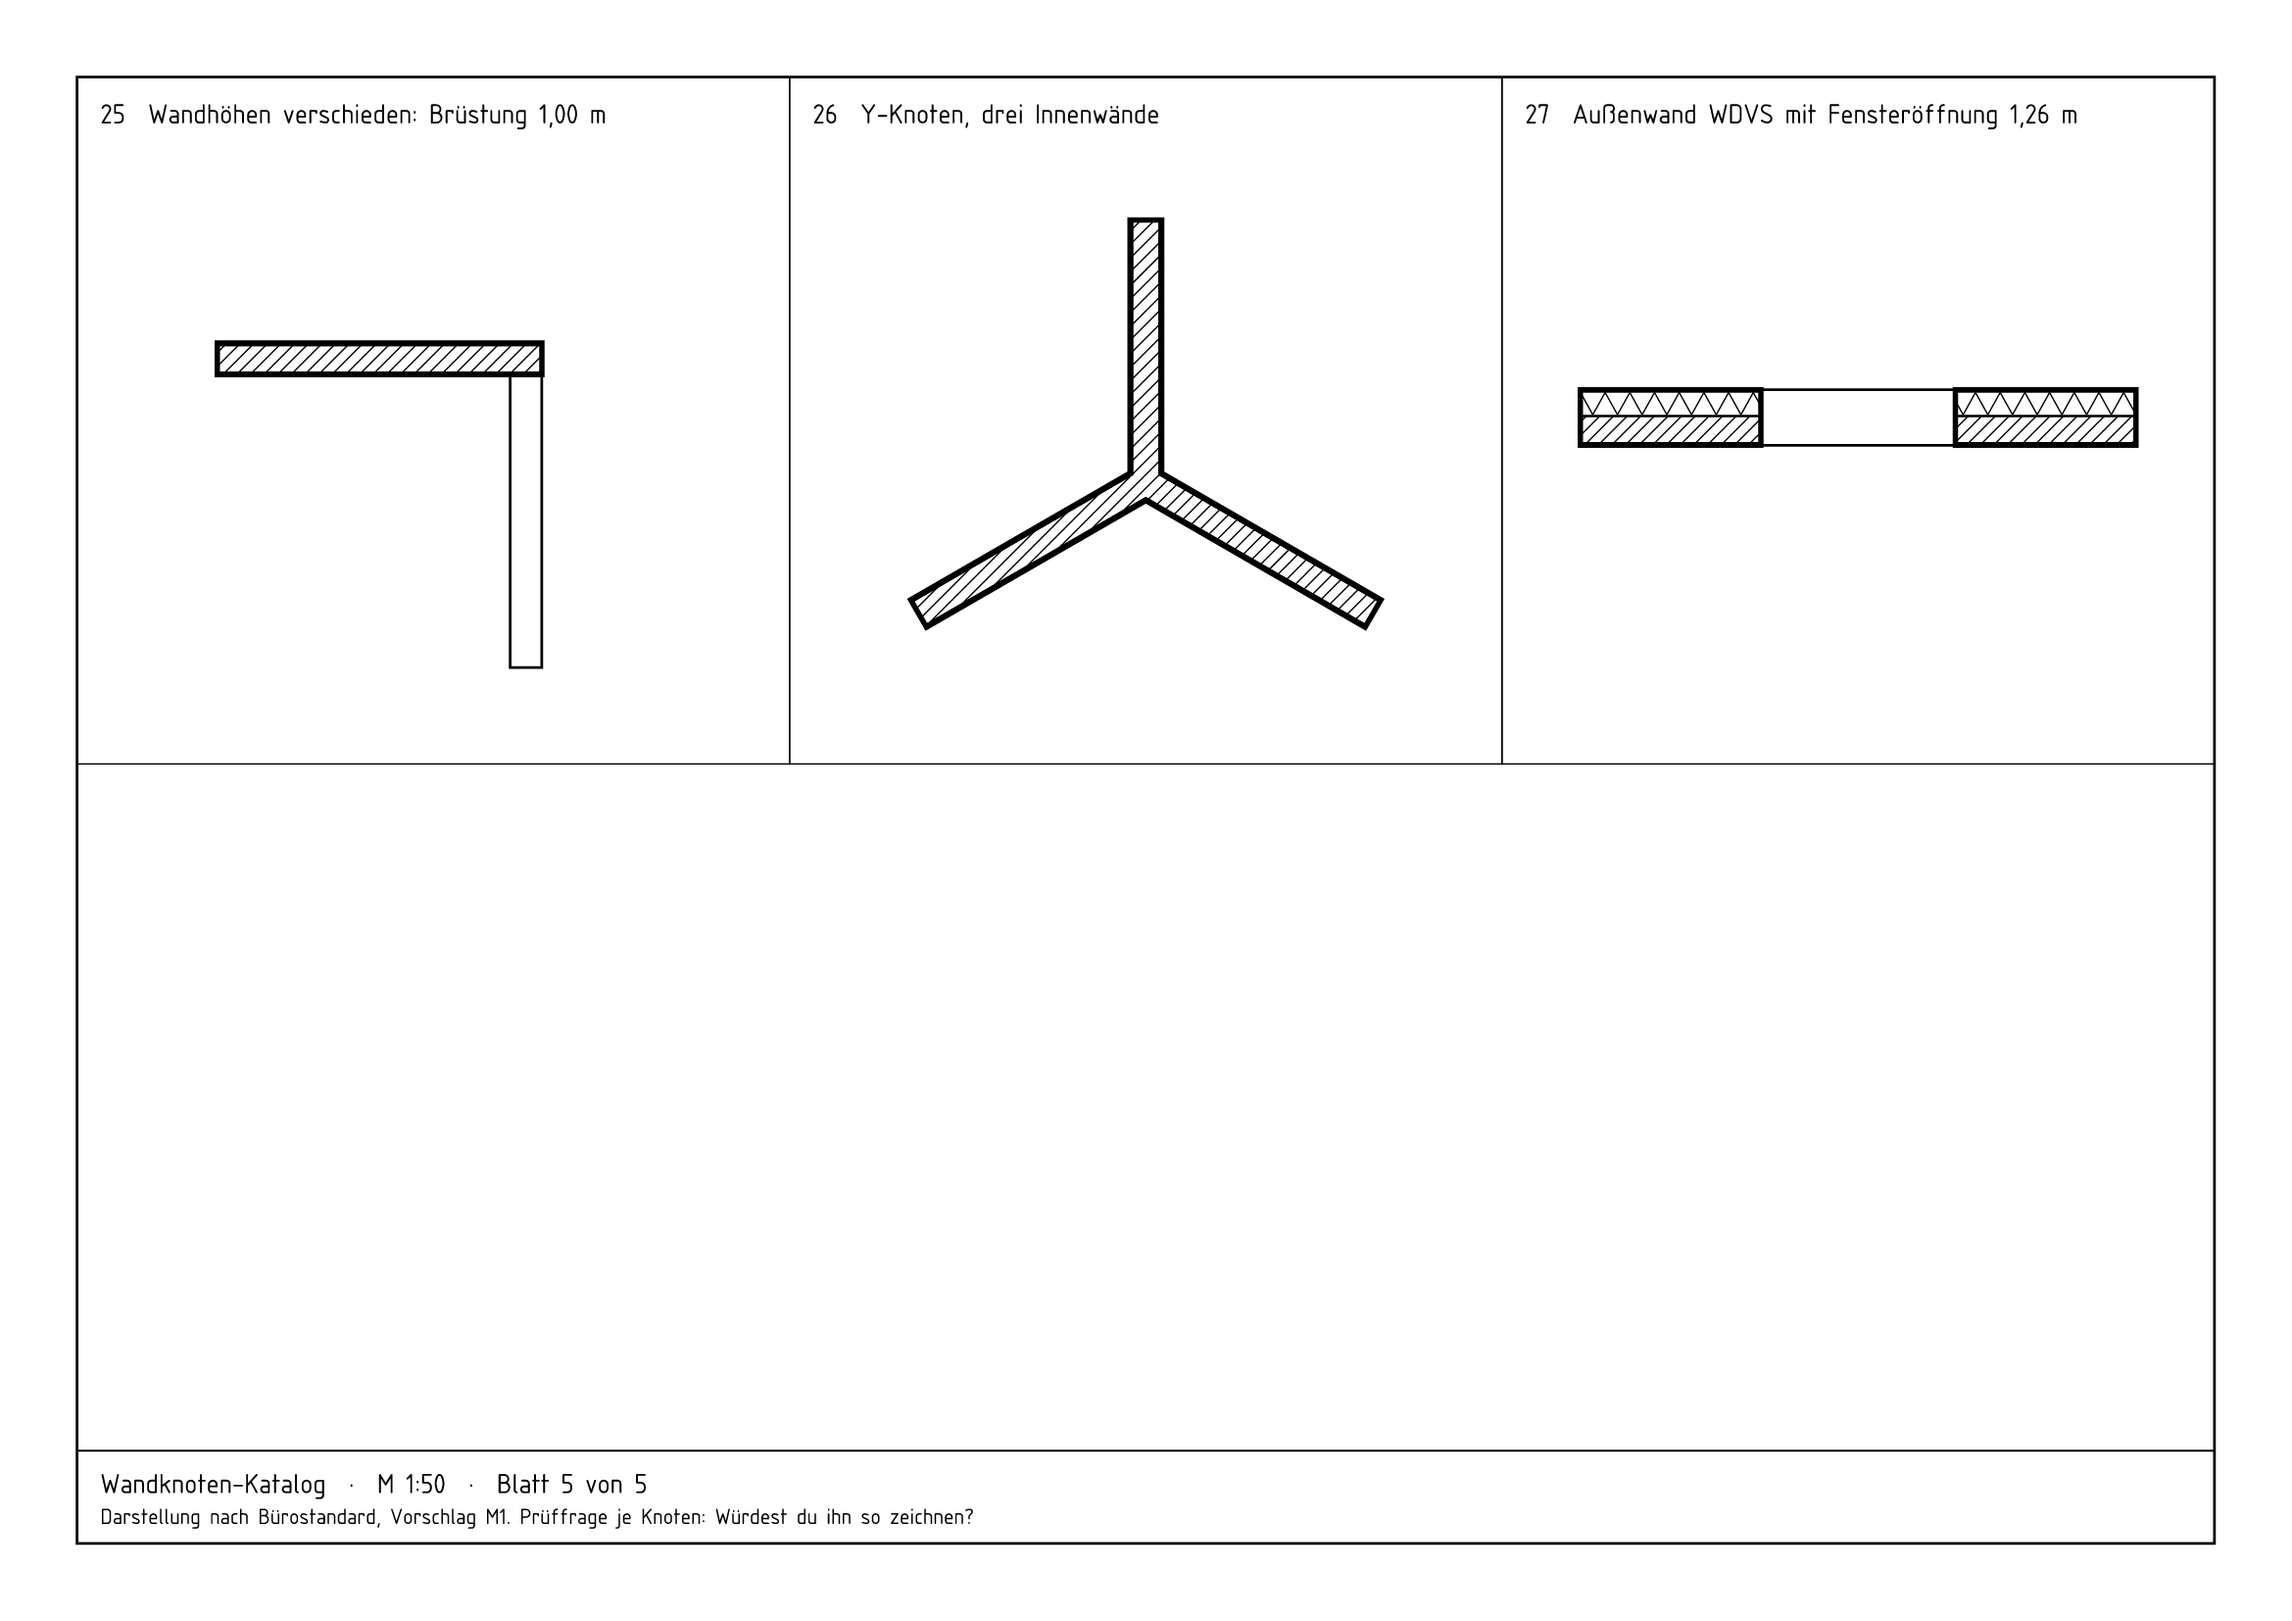
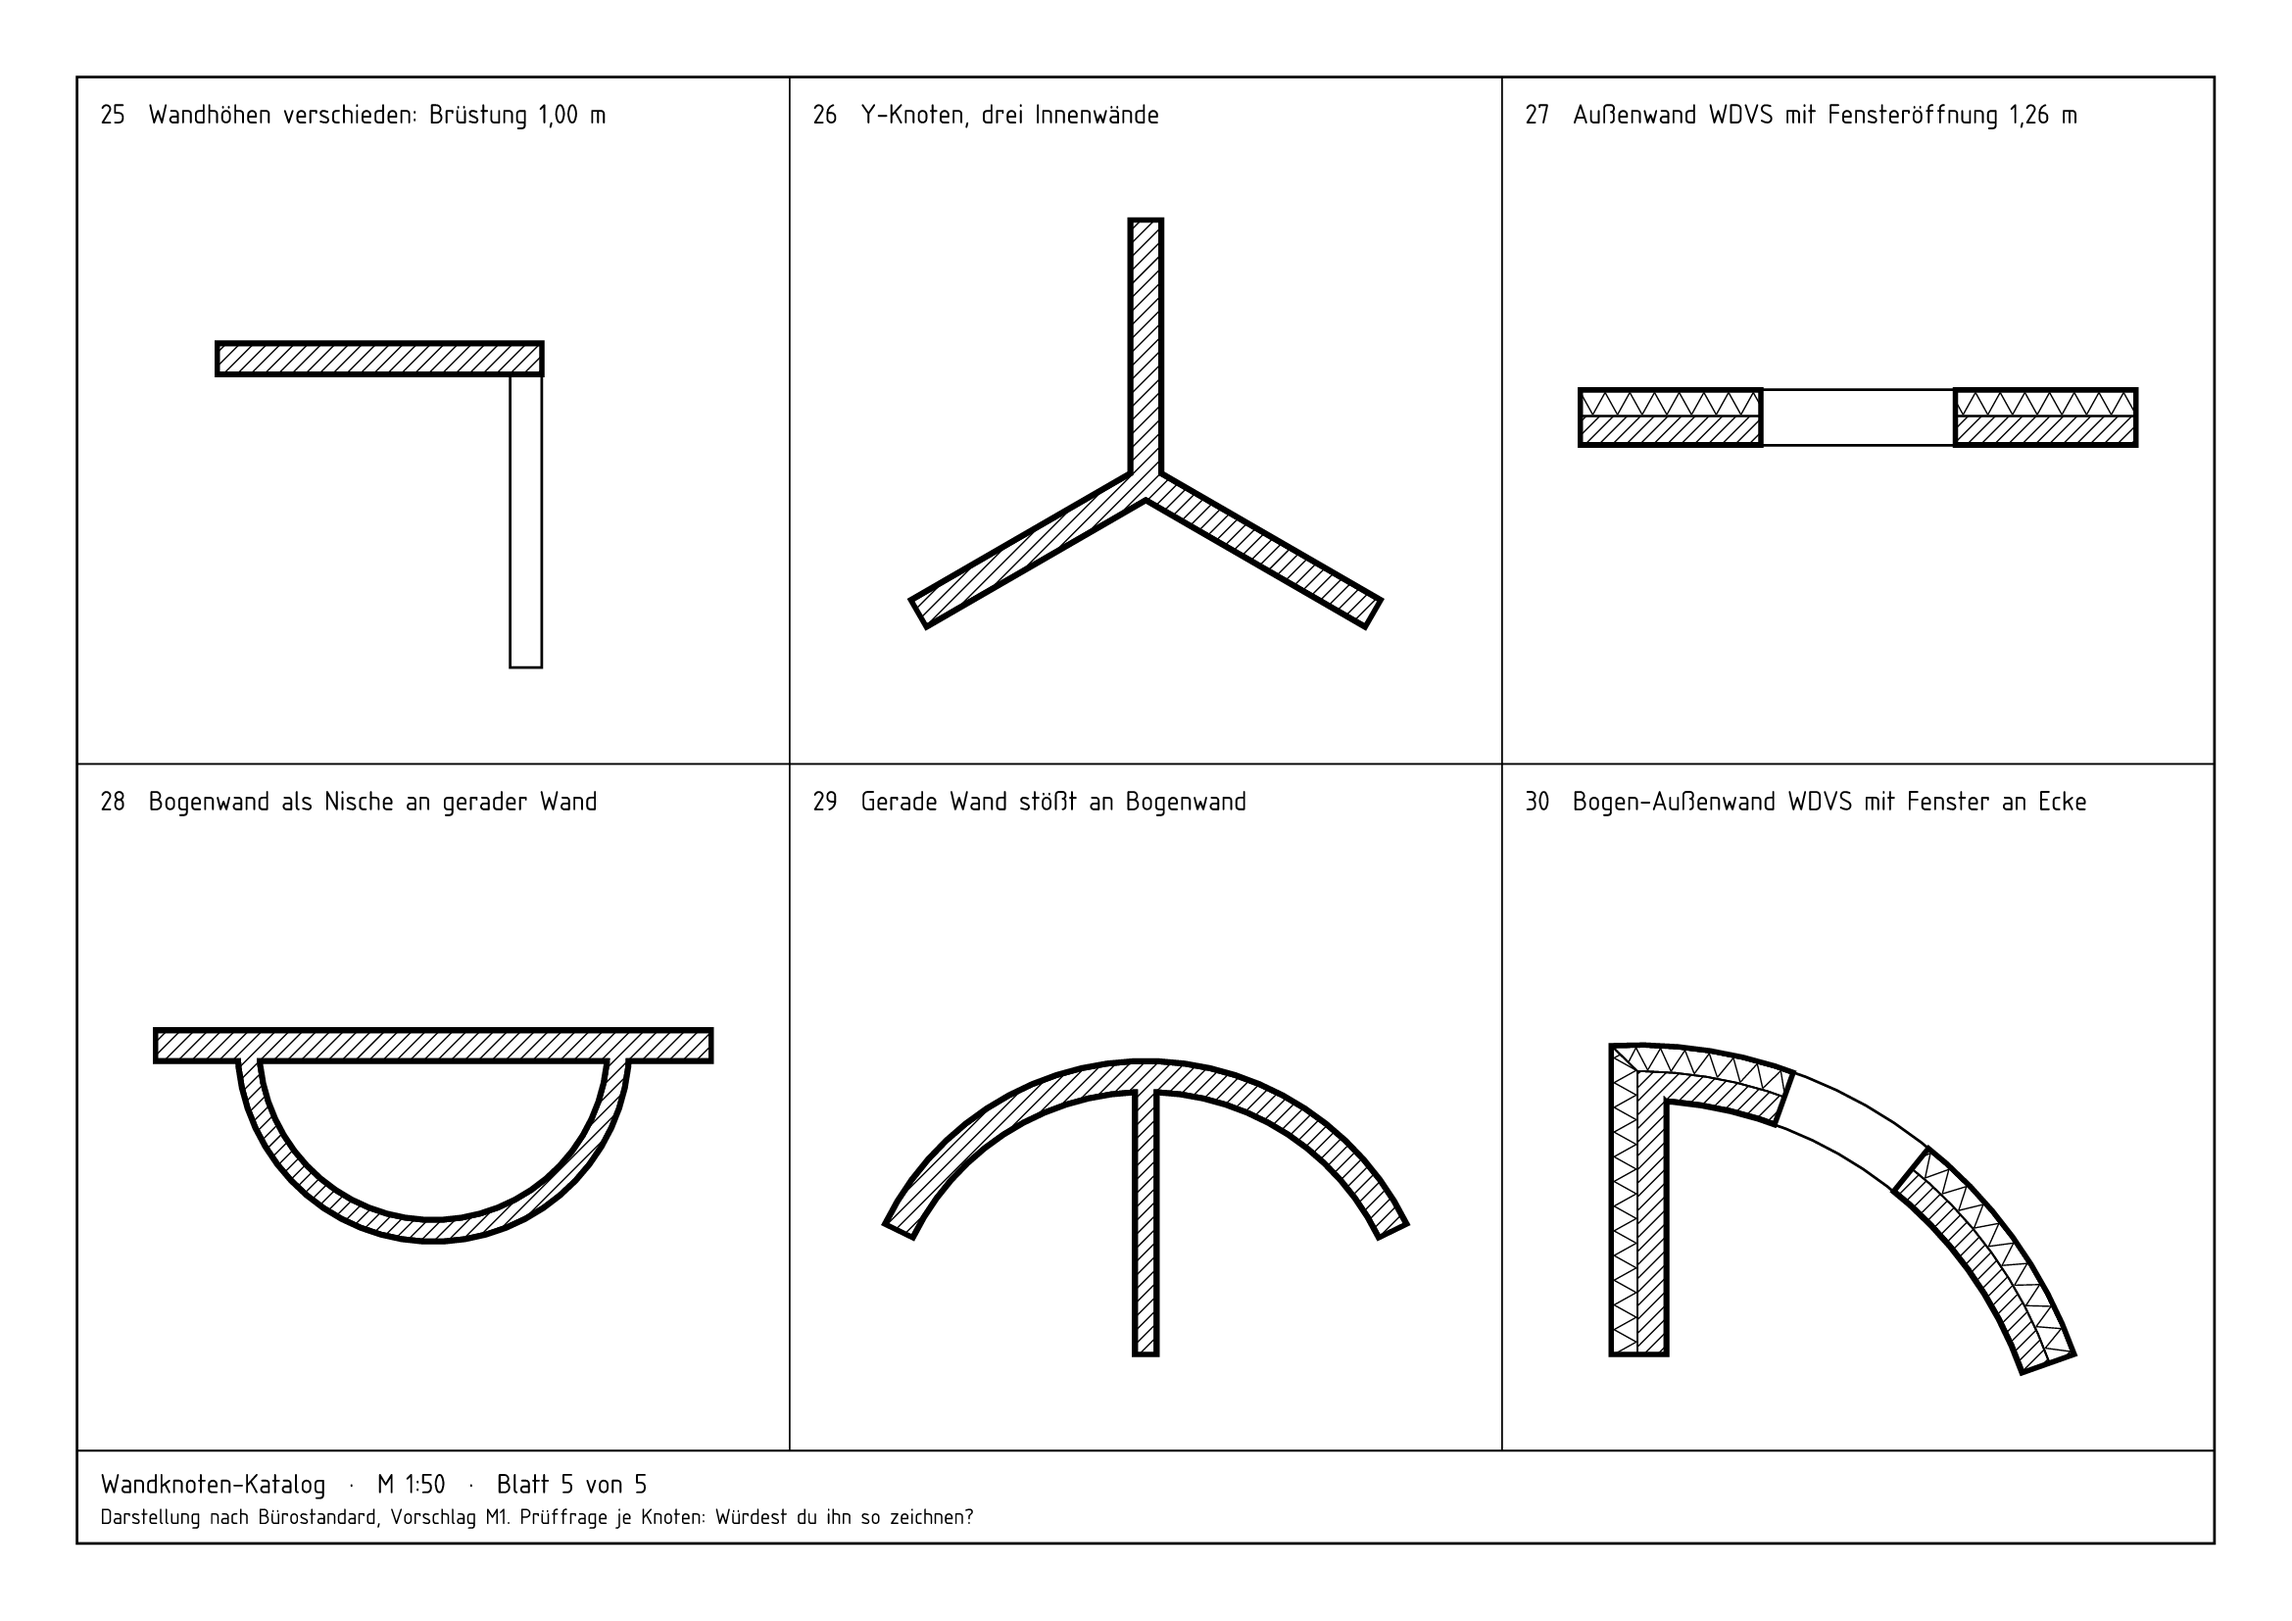
Prüfpaket M1: Bogenwände, Knoten 28 bis 30, Test gegen Fugen in Bögen

diff --git a/core/crates/lot-geom/src/tests.rs b/core/crates/lot-geom/src/tests.rs
@@ -498,3 +498,49 @@ fn random_constellations_with_arcs_never_overlap() {
         assert_no_overlaps(&r);
     }
 }
+
+#[test]
+fn every_arc_layer_is_one_piece() {
+    // Eine freie Bogenwand: Jede Schicht ist genau ein Ring, ohne Fuge an
+    // den Facettenstößen, für beliebige Lage, Länge und Stich.
+    let mut seed: u64 = 0x0b09_e11a;
+    let mut next = move |n: u64| {
+        seed ^= seed << 13;
+        seed ^= seed >> 7;
+        seed ^= seed << 17;
+        seed % n
+    };
+    for _ in 0..300 {
+        let mut p = project();
+        let a = (next(2000) as f64 / 100.0 - 10.0, next(2000) as f64 / 100.0 - 10.0);
+        let b = (next(2000) as f64 / 100.0 - 10.0, next(2000) as f64 / 100.0 - 10.0);
+        let chord = (b.0 - a.0).hypot(b.1 - a.1);
+        if chord < 1.0 {
+            continue;
+        }
+        let wall_type = [WDVS, INNEN, TRENN][next(3) as usize];
+        let id = add_wall(&mut p, wall_type, a, b, WallAlignment::Center);
+        let sagitta = (next(1000) as f64 / 1000.0 - 0.5) * chord;
+        bend(&mut p, id, (sagitta * 100.0).round() / 100.0);
+        for r in regions(&p) {
+            let rings = r.area.rings();
+            assert_eq!(
+                rings.len(),
+                1,
+                "Schicht {} von {a:?} nach {b:?}, Stich {sagitta}: {} Ringe",
+                r.layer,
+                rings.len()
+            );
+            // Kein Schlitz: Keine Ecke kehrt um.
+            let ring = &rings[0];
+            let n = ring.len();
+            for k in 0..n {
+                let (u, v, w) = (ring[(k + n - 1) % n], ring[k], ring[(k + 1) % n]);
+                let d1 = [v[0] - u[0], v[1] - u[1]];
+                let d2 = [w[0] - v[0], w[1] - v[1]];
+                let cos = (d1[0] * d2[0] + d1[1] * d2[1]) / (d1[0].hypot(d1[1]) * d2[0].hypot(d2[1]));
+                assert!(cos > -0.99, "Schlitz in Schicht {} bei {v:?}, von {a:?} nach {b:?}, Stich {sagitta}", r.layer);
+            }
+        }
+    }
+}

diff --git a/pruefpakete/2026-10-23-m1-waende/README.md b/pruefpakete/2026-10-23-m1-waende/README.md
@@ -4,14 +4,14 @@
 
 ## Was drin ist
 
-- `wandknoten-50.pdf`: Katalog mit 27 Wandknoten, 1:50, fünf Blätter A4 quer. **In Originalgröße drucken (100 %).**
+- `wandknoten-50.pdf`: Katalog mit 30 Wandknoten, 1:50, davon drei mit Bogenwänden (28 bis 30), fünf Blätter A4 quer. **In Originalgröße drucken (100 %).**
 - `wandknoten-50-1.png` bis `-5.png`: dieselben Blätter zum Ansehen auf dem iPhone
 - `wandknoten-100.pdf`: der Katalog in 1:100, zum Vergleich der Detailstufen
 - `eg-100.pdf`, `eg-50.pdf`, `eg-200.pdf`: Grundriss EG des Testprojekts EFH in drei Maßstäben, dazu `eg-50.png`, `eg-100.png` und `eg-200.png`
 - `kg-100.pdf`, `dg-100.pdf` und `dg-100.png`: Keller und Dachgeschoss
 - `efh-3d.png`: das ganze Haus in 3D, gerechnet vom Renderer der App
 - `eg-planansicht.png`: der Grundriss so, wie ihn die App auf dem Bildschirm zeigt
-- Entscheidungen: ADR 0017 (Wandanschlüsse nach Schichtrang), 0018 (Bürostandard als Daten), 0019 (Werkzeuge und Befehle im Kern) in `docs/entscheidungen/`
+- Entscheidungen: ADR 0017 (Wandanschlüsse nach Schichtrang), 0018 (Bürostandard als Daten), 0019 (Werkzeuge und Befehle im Kern), 0020 (Gebogene Wände) in `docs/entscheidungen/`
 
 ## App starten
 
@@ -26,6 +26,7 @@ Die App startet mit einem leeren Projekt im Grundriss 1:100. Das EFH öffnest du
 | Taste | Was |
 |---|---|
 | W | Wand zeichnen: Klick, Klick, Klick, Esc beendet die Kette. Eine Länge tippen und Return setzt den nächsten Punkt genau. |
+| B | Bogenwand: Anfang klicken, Ende klicken, dann den Stich mit dem Zeiger ziehen und klicken (oder tippen und Return). Den Stich jeder Wand kannst du rechts ändern. |
 | V | Auswählen. Ziehen verschiebt, angeschlossene Wände ziehen mit. Endpunkte lassen sich einzeln ziehen. |
 | A | Achse zeichnen. Senkrechte Achsen bekommen Zahlen, waagrechte Buchstaben. |
 | S | Stütze setzen, 30 × 30 cm Stahlbeton |
@@ -41,25 +42,26 @@ Gefangen werden Wandenden, Achsschnitte, Wandflächen und Achsen, dazu 15°-Wink
 
 Antwort jeweils Ja oder Nein und ein Satz. Wo ein Vorschlag steht, reicht „Vorschlag ok“.
 
-1. **Abnahme:** Wandknoten 1 bis 27 auf `wandknoten-50.pdf`: Würdest du jeden so von Hand zeichnen? Bitte die Nummern nennen, die nicht stimmen.
+1. **Abnahme:** Wandknoten 1 bis 30 auf `wandknoten-50.pdf`: Würdest du jeden so von Hand zeichnen? Bitte die Nummern nennen, die nicht stimmen. Spitze Winkel (17, 18) laufen voll aus und werden erst ab zwei Wanddicken über dem Knotenpunkt gekappt.
 2. Der Rang der Schichten entscheidet, welche Schicht durchläuft: Tragend vor Dämmung vor Bekleidung vor Putz, bei gleichem Rang die dickere Wand. Passt diese Reihenfolge? Vorschlag: ja, so lassen.
 3. Knoten 6 (WDVS-Außenwand trifft als L auf eine Innenwand): Die Dämmung läuft bis zur Außenkante der Innenwand und endet dort stumpf, die Innenwand bleibt ohne Dämmung. Vorschlag: so lassen, eine gedämmte Ecke wäre ein eigener Wandaufbau.
 4. Knoten 12: Die Trockenbauwand stößt durch den Putz bis ans Mauerwerk. Vorschlag: so lassen, so wird es auch gebaut.
 5. In 1:50 sieht man keinen Putz: Die Schnittlinie mit 0,70 mm reicht 0,35 mm nach innen, 1,5 cm Putz sind dort nur 0,3 mm. Vorschlag: Schnittlinie in 1:50 auf 0,50 mm und Putz mit einer feinen Linie 0,13 abgrenzen.
 6. Knoten 23 und 24 (freie Wandenden): Im Modell läuft der Putz nicht um das Wandende herum, sobald er sichtbar ist (Frage 5), fehlt er an der Stirnseite. Vorschlag: in 1:50 um das Ende herumführen, in 1:100 und 1:200 nicht.
 7. Schraffuren (1:50): Mauerwerk 45° im Abstand 1,25 mm, Stahlbeton gekreuzt, harte Dämmung (WDVS) als Zickzack, weiche Dämmung (Mineralwolle, etwa im Trockenbau) als Schlangenlinie, Putz und Gipskarton leer. In 1:100 nur das Tragende schraffiert, die übrigen Schichten als Linie, in 1:200 schwarz gefüllt ohne Schichten (wie in PLAN.md vorgeschlagen). Passt das? Vorschlag: ja, als Grundeinstellung des Bürostandards.
-8. Knoten 17 und 18 (spitze Winkel): Die Spitze läuft voll aus. Gekappt wird sie erst, wenn sie mehr als zwei Wanddicken über den Knotenpunkt hinausragt, bei mittiger Achse also unter etwa 29°. Vorschlag: so lassen.
+8. Bogenwände (Knoten 28 bis 30): Du gibst Anfang, Ende und den Stich (Pfeilhöhe) an, höchstens ein Halbkreis. Intern sind es gerade Stücke, höchstens 2 mm vom Bogen entfernt, Laibungen zeigen zum Mittelpunkt. Die Schraffur bleibt bei 45° und dreht nicht mit dem Bogen. Vorschlag: so lassen, Radius später zusätzlich als Anzeige rechts.
 9. Schnitthöhe 1,00 m über OKFF. Im DG (`dg-100.pdf`) liegt der Kniestock darunter und erscheint deshalb geschnitten, die Dachflächen kommen erst mit M3. Vorschlag: 1,00 m als Grundeinstellung, je Geschoss änderbar.
 10. **Abnahme:** In der App das EG des EFH in wenigen Minuten nachzeichnen: Außenwände, Innenwände, zwei Achsen, eine Stütze. Geht das ohne Anleitung, und fühlen sich Fangen und Verschieben richtig an?
 
 ## Was ich geprüft habe und was nicht
 
-- Wandanschlüsse: 15 Tests, davon einer mit 200 zufälligen Wandgruppen. Keine Schicht überlappt eine andere, keine Lücke entsteht. Ausnahme sind Splitter unter 2 µm aus der Rundung.
+- Geometrie: 22 Tests, davon Zufallstests mit 200 Gruppen gerader Wände, 100 Gruppen mit Bögen und 300 einzelnen Bögen. Keine Schicht überlappt eine andere, keine Lücke entsteht, jede Schicht einer Bogenwand ist ein Stück ohne Fuge. Ausnahme sind Splitter unter 2 µm Breite aus der Rundung.
+- Gerade Wände haben sich durch die Bögen nicht verändert: Die Ausgaben von EFH und Katalogblatt 1 bis 4 sind bit-gleich zum Stand davor.
 - Katalog und EFH: Grundrisse 1:50, 1:100, 1:200 als PDF, SVG und PNG, dazu die 3D-Ansicht und die Planansicht des Bildschirms. Angesehen habe ich jeden Knoten selbst, die fachliche Abnahme bleibt bei dir (Frage 1).
-- App per Bildschirmsteuerung: Wände per Klick gezeichnet, T-Stoß fängt an der Wandfläche, Auswahl mit Rahmen und Eigenschaften rechts, 3D zeigt automatisch alles, Befehlspalette per Klick, Achse mit Kreis und Nummer, Stütze gesetzt und in den Eigenschaften geändert.
+- App per Bildschirmsteuerung: Wände per Klick gezeichnet, T-Stoß fängt an der Wandfläche, Auswahl mit Rahmen und Eigenschaften rechts, 3D zeigt automatisch alles, Befehlspalette per Klick, Achse mit Kreis und Nummer, Stütze gesetzt und in den Eigenschaften geändert. Bogenwand mit drei Klicks gezeichnet, gerade Wand per T-Stoß an den Bogen gesetzt, beides im 3D geprüft.
 - Nicht prüfen konnte ich das Ziehen mit der Maus (die Steuerung schickt kein Ziehen an ein Fenster im Hintergrund) und das Tippen in die Befehlspalette. Beides ist im Kern getestet (Verschieben mit Anschlüssen, Endpunkt ziehen), in der App aber nur von Hand prüfbar (Frage 10).
 - CI auf GitHub: Kern unter Linux und macOS, Mac-App. Ergebnis steht im Pull Request.
-- Alle 78 Tests im Kern grün, clippy ohne Warnung.
+- Alle 93 Tests im Kern grün, clippy ohne Warnung.
 
 ## Messwerte
 
@@ -74,7 +76,7 @@ Für das 3D fasse ich gleiche Höhenabschnitte einer Wand zusammen und rechne au
 
 ## Bekannte Lücken
 
-- Gebogene Wände fehlen noch, im Katalog deshalb kein Knoten dazu.
+- Dämmstoffmuster auf Bögen: Die Zickzacklinie hat ihre Periode auf der Bezugslinie, außen wird sie etwas länger, innen etwas kürzer.
 - Fenster und Türen sind im Grundriss nur Lücken mit Brüstungslinie. Symbole, Anschläge und Maßketten kommen mit M2.
 - Der Bürostandard ist eine Datei im Code (`core/crates/lot-plan/src/buerostandard.ron`). Eigene Standards je Büro kommen mit M5.
 - Referenzen für die Golden-Tests habe ich nicht angelegt. Sobald du die Knoten freigibst, lege ich sie aus genau diesen Ausgaben an.
